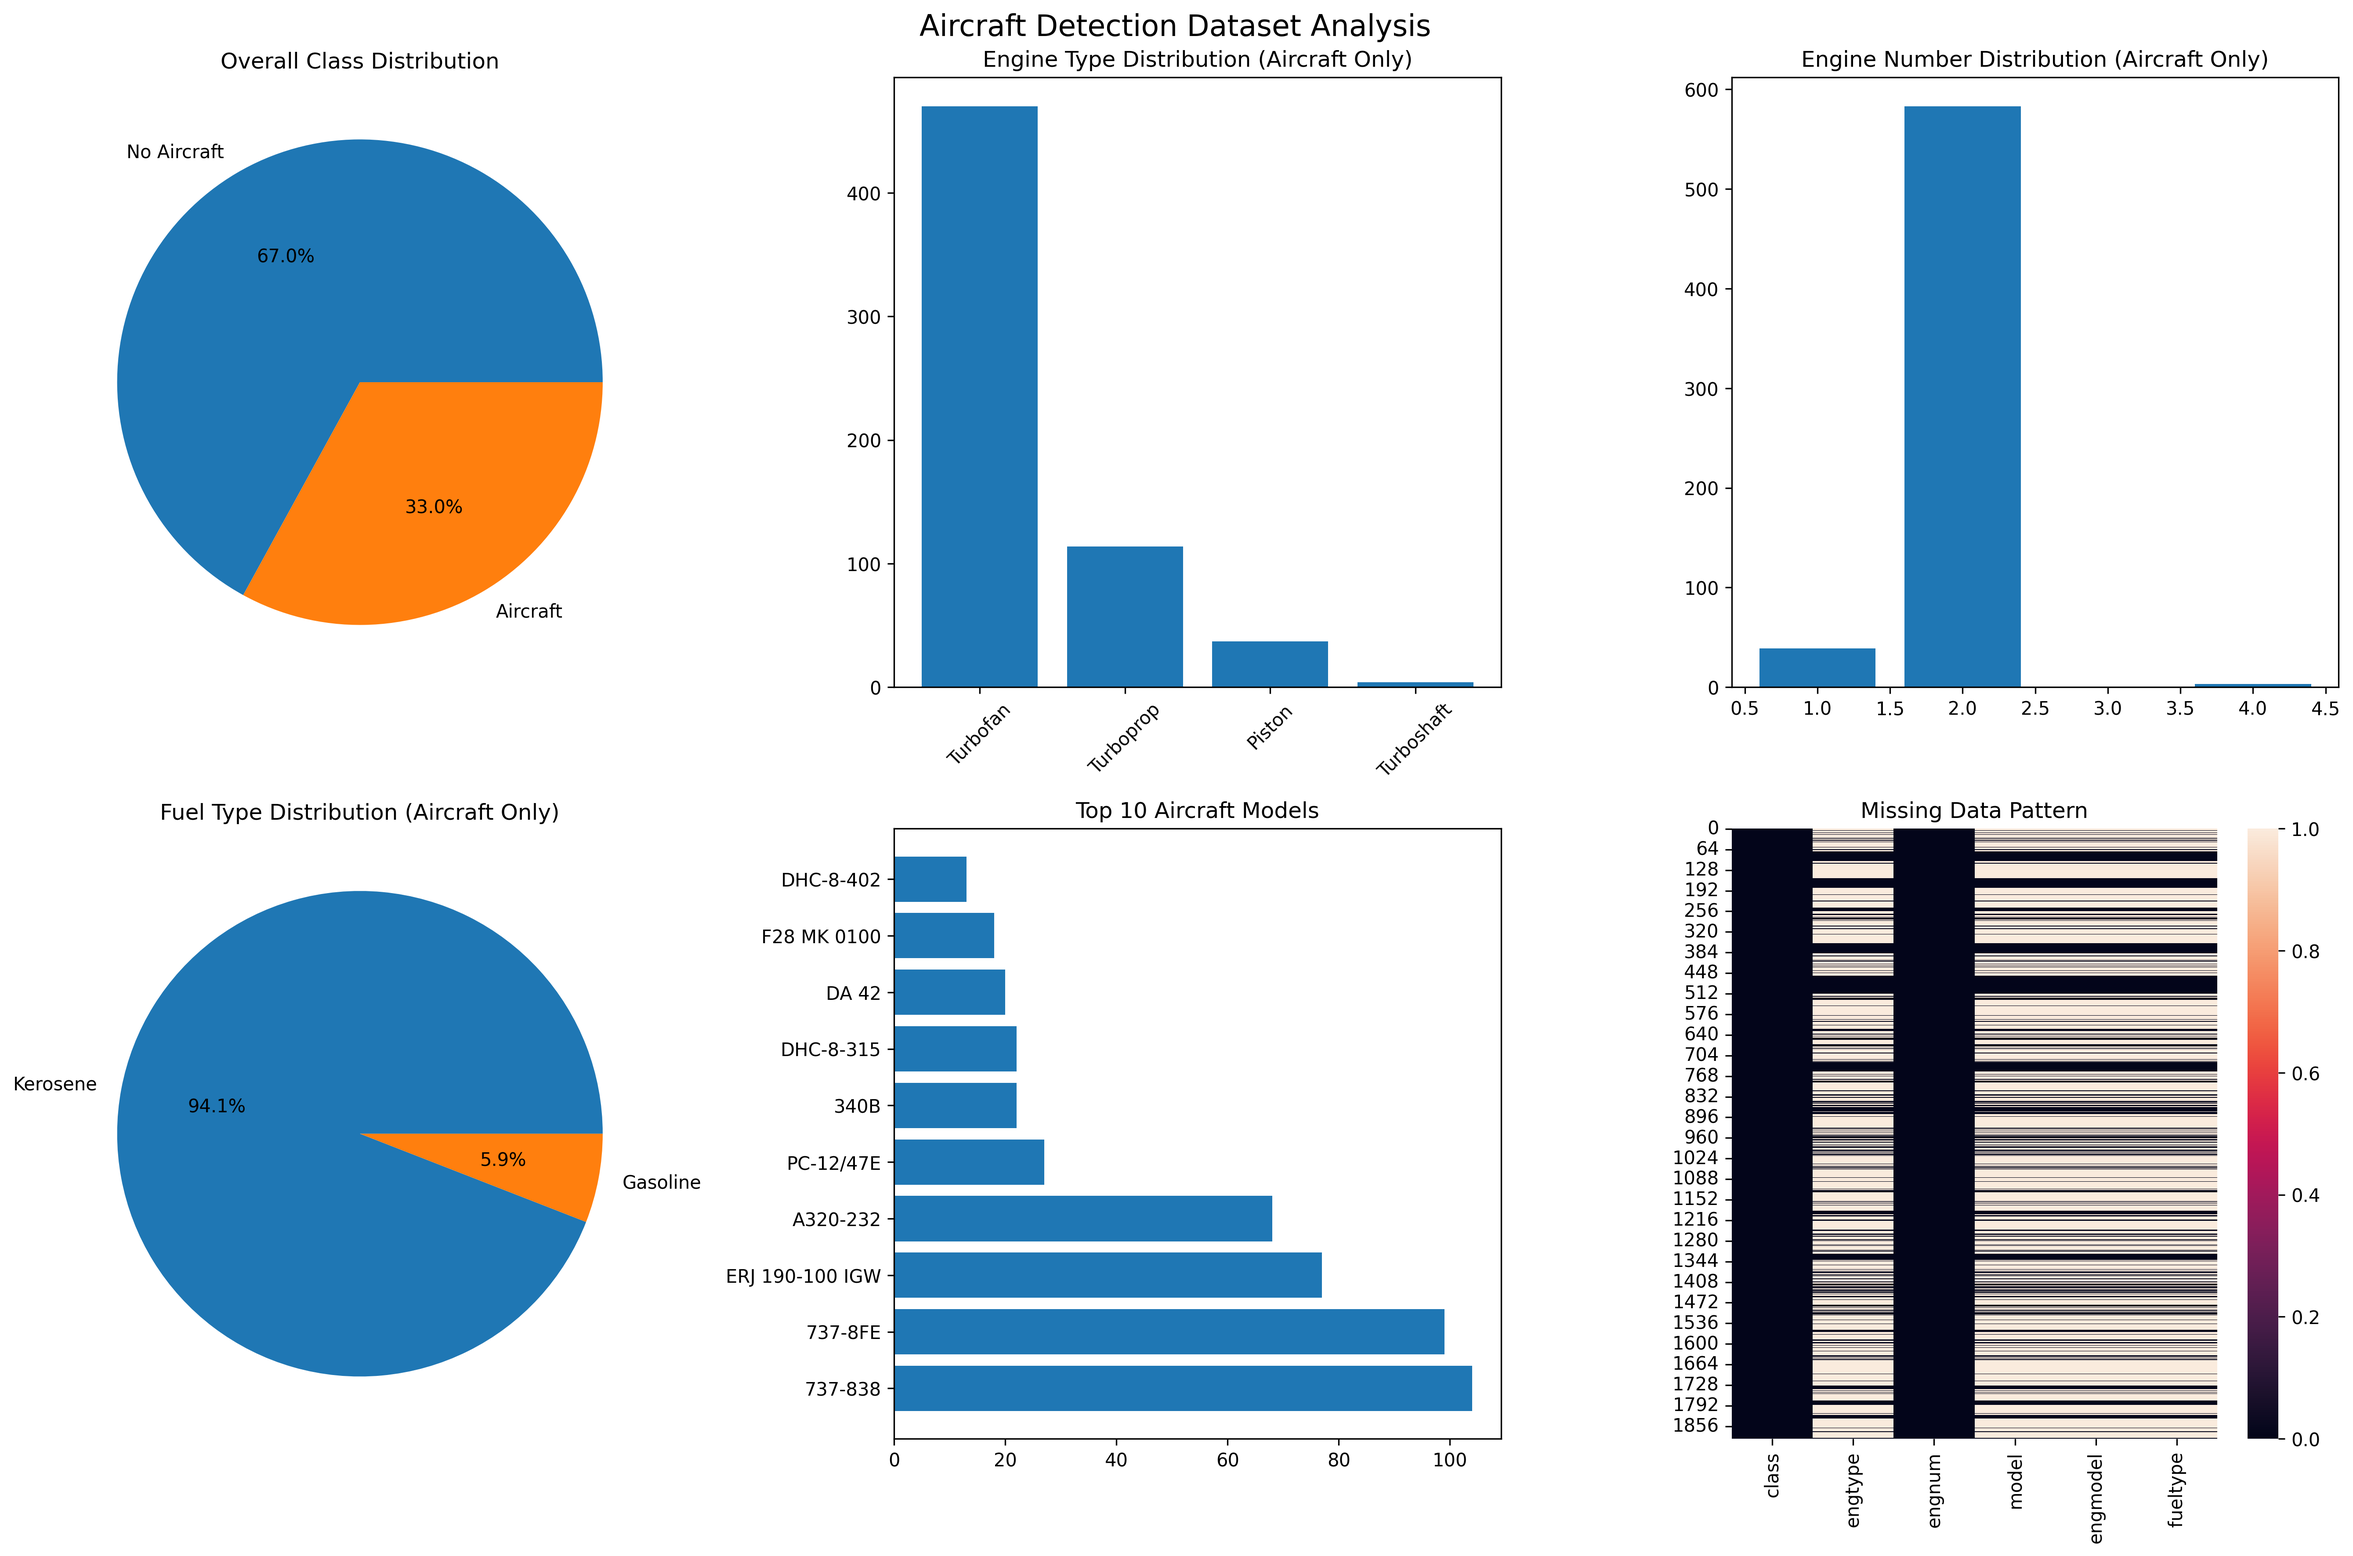
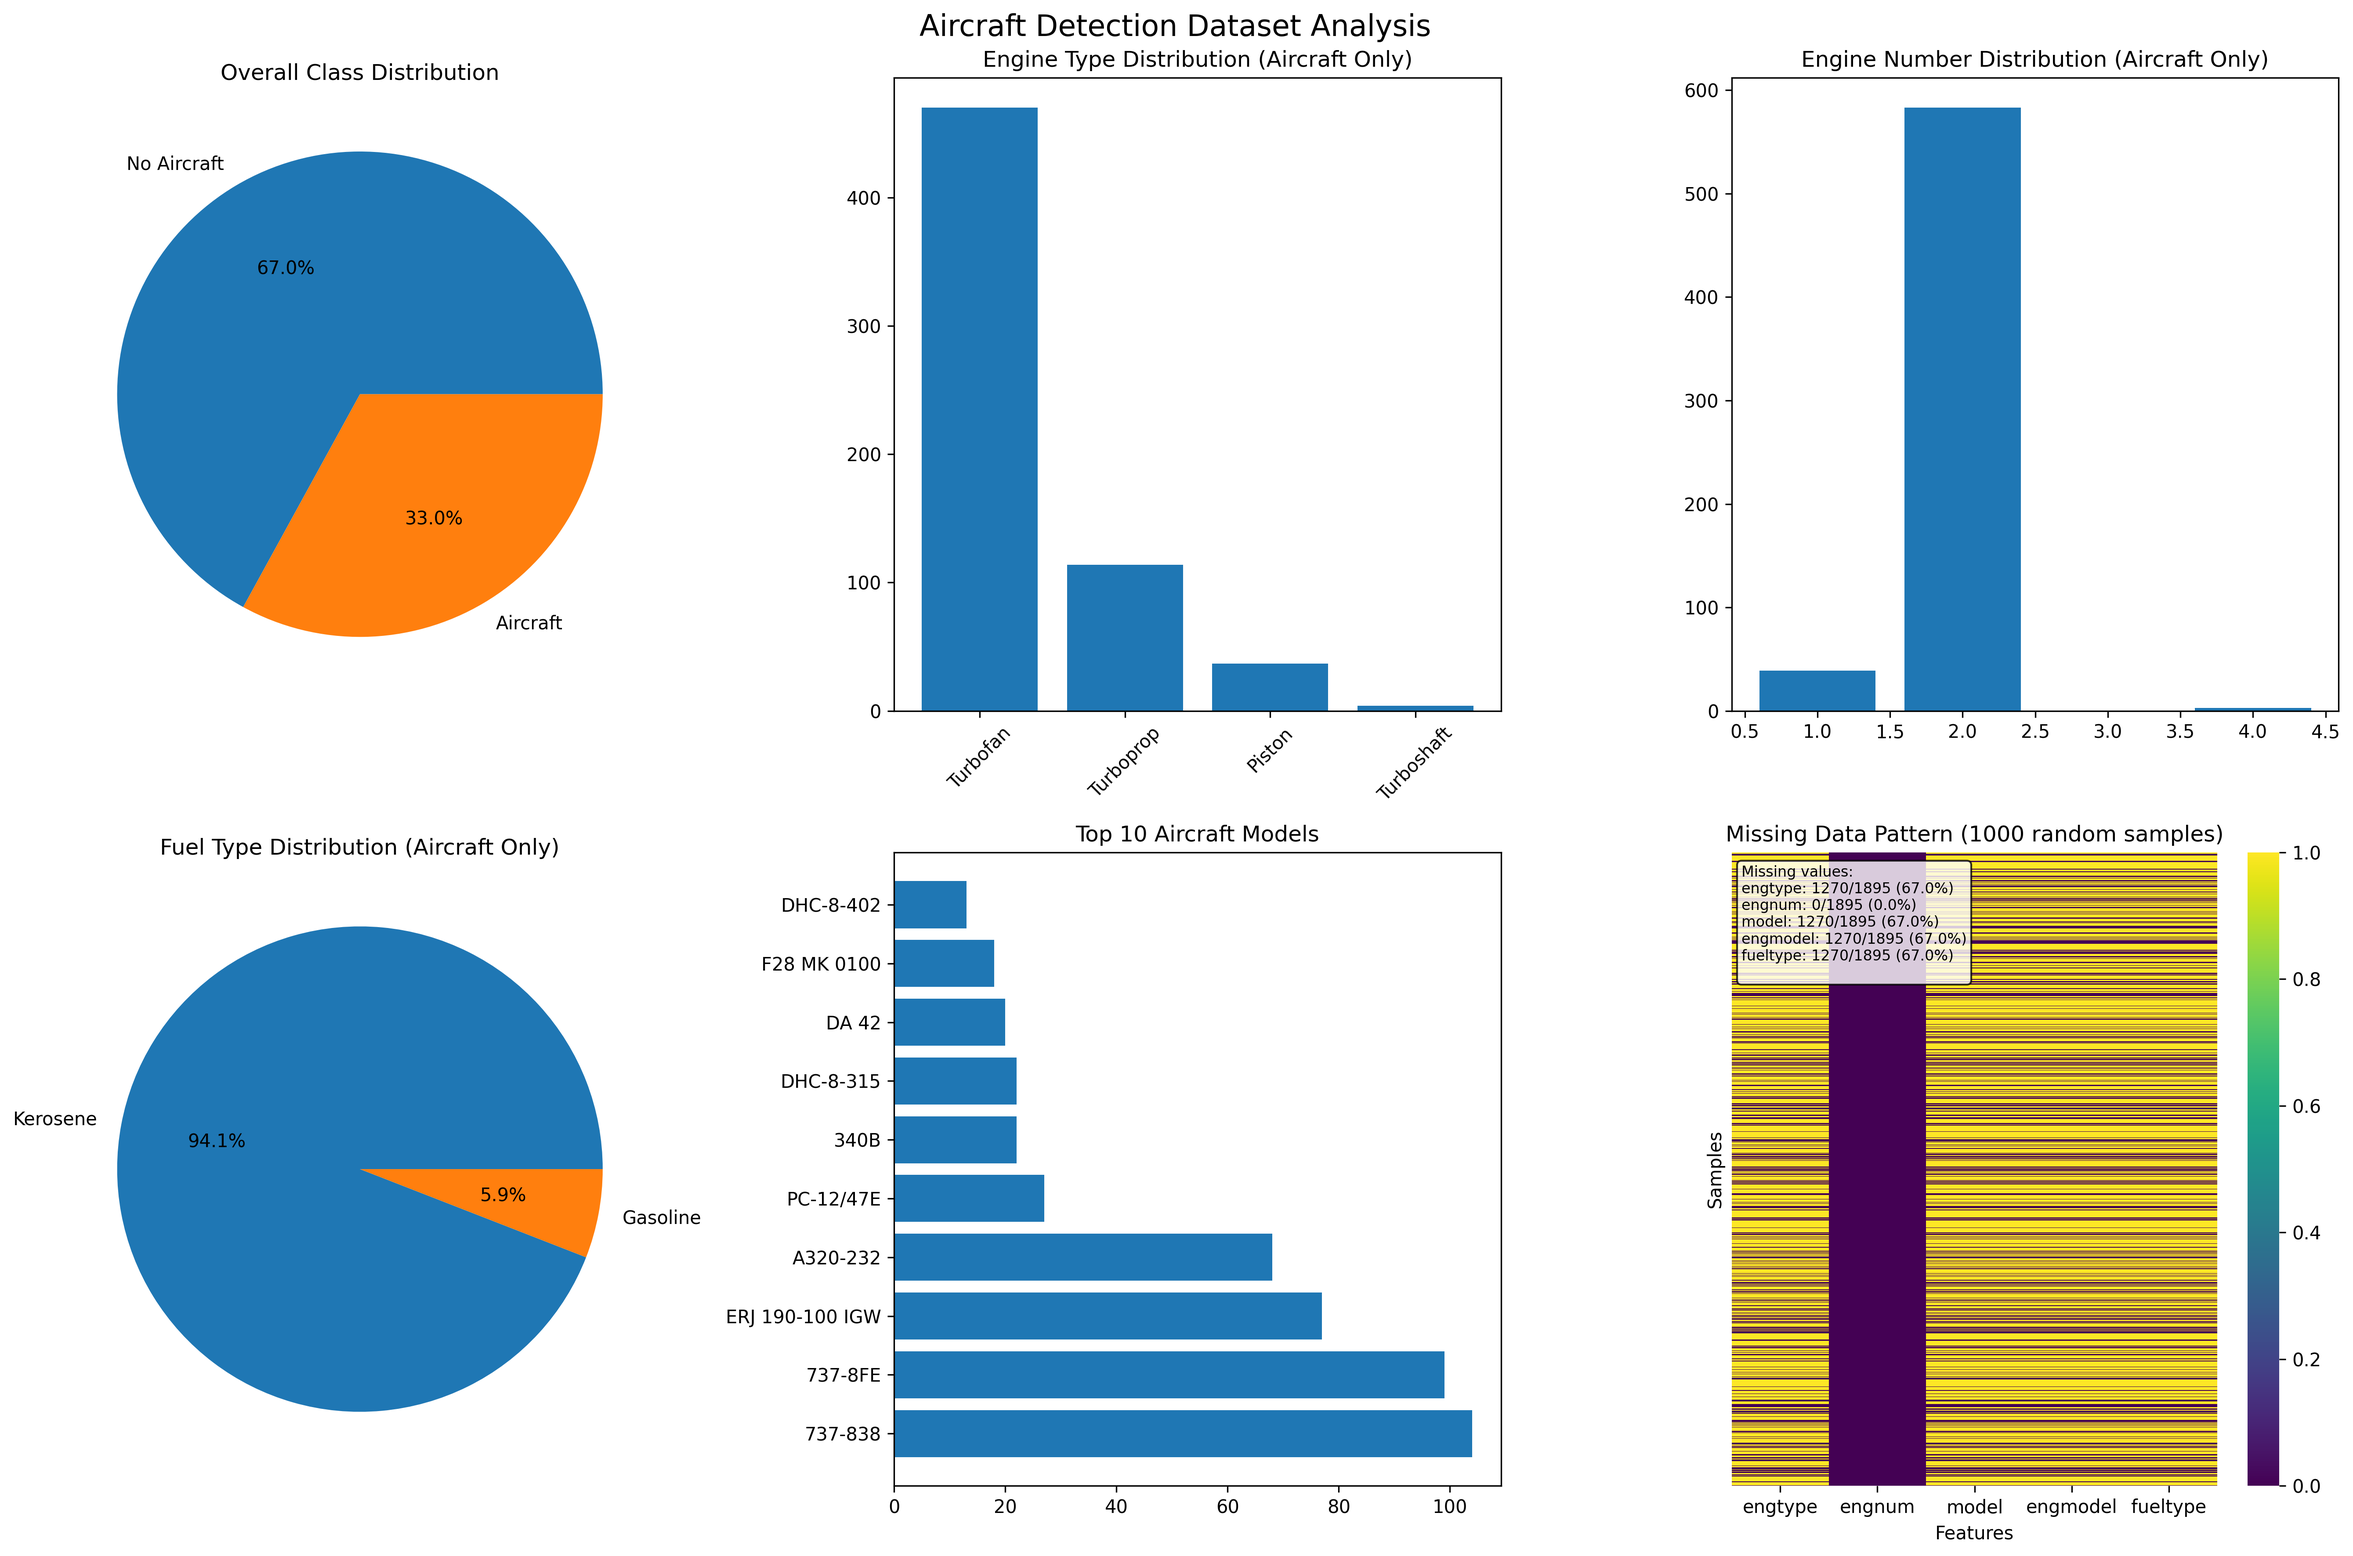
dataset analysis corrected, added README.md, requirements.txt

diff --git a/analyze_dataset.py b/analyze_dataset.py
@@ -104,6 +104,68 @@ def analyze_dataset():
     
     return df, aircraft_df, complete_aircraft
 
+def analyze_missing_data(df):
+    """Analyze missing data patterns in detail"""
+    
+    print("=== DETAILED MISSING DATA ANALYSIS ===")
+    
+    # Target columns for analysis
+    target_cols = ['engtype', 'engnum', 'model', 'engmodel', 'fueltype']
+    
+    # Calculate missing data statistics
+    missing_stats = {}
+    for col in target_cols:
+        if col in df.columns:
+            missing_count = df[col].isnull().sum()
+            total_count = len(df)
+            missing_percentage = (missing_count / total_count) * 100
+            missing_stats[col] = {
+                'missing_count': missing_count,
+                'total_count': total_count,
+                'missing_percentage': missing_percentage,
+                'present_count': total_count - missing_count
+            }
+    
+    # Print detailed statistics
+    for col, stats in missing_stats.items():
+        print(f"\n{col.upper()}:")
+        print(f"  Missing: {stats['missing_count']}/{stats['total_count']} ({stats['missing_percentage']:.1f}%)")
+        print(f"  Present: {stats['present_count']}/{stats['total_count']} ({100 - stats['missing_percentage']:.1f}%)")
+    
+    # Analyze missing data patterns
+    print(f"\n=== MISSING DATA PATTERNS ===")
+    
+    # Check if missing data is related to class
+    if 'class' in df.columns:
+        print(f"\nMissing data by class:")
+        for col in target_cols:
+            if col in df.columns:
+                missing_by_class = df.groupby('class')[col].apply(lambda x: x.isnull().sum())
+                total_by_class = df.groupby('class').size()
+                print(f"\n{col}:")
+                for class_val, missing_count in missing_by_class.items():
+                    total_in_class = total_by_class[class_val]
+                    percentage = (missing_count / total_in_class) * 100
+                    class_label = "Aircraft" if class_val == 1 else "No Aircraft"
+                    print(f"  {class_label} (class={class_val}): {missing_count}/{total_in_class} ({percentage:.1f}%)")
+    
+    # Check for complete vs incomplete records
+    complete_records = df.dropna(subset=target_cols)
+    incomplete_records = df[df[target_cols].isnull().any(axis=1)]
+    
+    print(f"\n=== RECORD COMPLETENESS ===")
+    print(f"Complete records: {len(complete_records)} ({len(complete_records)/len(df)*100:.1f}%)")
+    print(f"Incomplete records: {len(incomplete_records)} ({len(incomplete_records)/len(df)*100:.1f}%)")
+    
+    # Analyze which columns are most commonly missing together
+    print(f"\n=== MISSING DATA COMBINATIONS ===")
+    missing_combinations = df[target_cols].isnull().sum(axis=1).value_counts().sort_index()
+    for missing_count, record_count in missing_combinations.items():
+        percentage = (record_count / len(df)) * 100
+        print(f"Records missing {missing_count} columns: {record_count} ({percentage:.1f}%)")
+    
+    return missing_stats
+
 def create_visualizations(df, aircraft_df, complete_aircraft):
     """Create visualizations for the dataset analysis"""
     
@@ -144,10 +206,54 @@ def create_visualizations(df, aircraft_df, complete_aircraft):
         axes[1, 1].set_yticklabels(model_counts.index)
         axes[1, 1].set_title('Top 10 Aircraft Models')
     
-    # 6. Missing data heatmap
-    missing_data = df[['class', 'engtype', 'engnum', 'model', 'engmodel', 'fueltype']].isnull()
-    sns.heatmap(missing_data, cbar=True, ax=axes[1, 2])
-    axes[1, 2].set_title('Missing Data Pattern')
+    # 6. Missing data heatmap - improved version
+    # Only show target columns for missing data analysis (exclude 'class' as it's the target)
+    target_cols_for_missing = ['engtype', 'engnum', 'model', 'engmodel', 'fueltype']
+    missing_data = df[target_cols_for_missing].isnull()
+    
+    # Create a better missing data visualization
+    if missing_data.sum().sum() > 0:  # Only create heatmap if there are missing values
+        # Sample the data if too many rows to avoid overwhelming visualization
+        if len(missing_data) > 1000:
+            # Take a random sample of 1000 rows for better visualization
+            sample_indices = np.random.choice(len(missing_data), 1000, replace=False)
+            missing_data_sample = missing_data.iloc[sample_indices]
+            title_suffix = " (1000 random samples)"
+        else:
+            missing_data_sample = missing_data
+            title_suffix = ""
+        
+        sns.heatmap(missing_data_sample, 
+                    cbar=True, 
+                    ax=axes[1, 2],
+                    cmap='viridis',
+                    yticklabels=False)  # Hide y-axis labels for cleaner look
+        axes[1, 2].set_title(f'Missing Data Pattern{title_suffix}')
+        axes[1, 2].set_xlabel('Features')
+        axes[1, 2].set_ylabel('Samples')
+        
+        # Add missing data summary as text
+        missing_summary = missing_data.sum()
+        total_samples = len(missing_data)
+        summary_text = f"Missing values:\n"
+        for col, missing_count in missing_summary.items():
+            percentage = (missing_count / total_samples) * 100
+            summary_text += f"{col}: {missing_count}/{total_samples} ({percentage:.1f}%)\n"
+        
+        # Add text box with summary
+        axes[1, 2].text(0.02, 0.98, summary_text, 
+                        transform=axes[1, 2].transAxes, 
+                        verticalalignment='top',
+                        bbox=dict(boxstyle='round', facecolor='white', alpha=0.8),
+                        fontsize=8)
+    else:
+        # If no missing data, show a message
+        axes[1, 2].text(0.5, 0.5, 'No Missing Data\nin Target Columns', 
+                        ha='center', va='center', transform=axes[1, 2].transAxes,
+                        fontsize=14, fontweight='bold')
+        axes[1, 2].set_title('Missing Data Pattern')
+        axes[1, 2].set_xticks([])
+        axes[1, 2].set_ylabel([])
     
     plt.tight_layout()
     plt.savefig('dataset_analysis.png', dpi=300, bbox_inches='tight')
@@ -156,6 +262,9 @@ def create_visualizations(df, aircraft_df, complete_aircraft):
 if __name__ == "__main__":
     # Run the analysis
     df, aircraft_df, complete_aircraft = analyze_dataset()
+    
+    # Run detailed missing data analysis
+    missing_stats = analyze_missing_data(df)
     
     # Create visualizations
     create_visualizations(df, aircraft_df, complete_aircraft)

diff --git a/README.md b/README.md
@@ -1,0 +1,104 @@
+# Aircraft Detection from Audio - Multi-Class Classification
+
+Deep learning system to classify aircraft characteristics from audio recordings using convolutional recurrent neural networks (CRNNs)
+
+## Project Overview
+
+Multi-class classification:
+
+- **Engine Type** (Turbofan, Turboprop, Piston, Turboshaft)
+- **Engine Number** (1, 2, 4 engines)
+- **Fuel Type** (Kerosene, Gasoline)
+
+## Dataset Analysis
+
+![Dataset Analysis](dataset_analysis.png)
+
+### Dataset Structure
+- **Total Recordings**: 1,895 audio files
+- **Aircraft Recordings**: 625 (class=1)
+- **No Aircraft Recordings**: 1,270 (class=0)
+- **Audio Format**: WAV files
+- **Duration**: Variable (typically 10-60 seconds)
+
+### Target Classification Variables
+
+#### 1. Engine Type (engtype) - 4 Classes
+| Class | Count | Percentage | Balance Ratio |
+|-------|-------|------------|---------------|
+| Turbofan | 470 | 75.2% | 117.5:1 |
+| Turboprop | 114 | 18.2% | 29.3:1 |
+| Piston | 37 | 5.9% | 9.3:1 |
+| Turboshaft | 4 | 0.6% | 1:1 |
+
+#### 2. Engine Number (engnum) - 3 Classes
+| Class | Count | Percentage | Balance Ratio |
+|-------|-------|------------|---------------|
+| 2 engines | 583 | 93.3% | 194.3:1 |
+| 1 engine | 39 | 6.2% | 15.0:1 |
+| 4 engines | 3 | 0.5% | 1:1 |
+
+#### 3. Fuel Type (fueltype) - 2 Classes
+| Class | Count | Percentage | Balance Ratio |
+|-------|-------|------------|---------------|
+| Kerosene | 588 | 94.1% | 15.9:1 |
+| Gasoline | 37 | 5.9% | 1:1 |
+
+### Data Quality Assessment
+- **Missing Data**: All target variables have complete data for aircraft recordings (class=1)
+- **Data Integrity**: No missing values in aircraft recordings for classification targets
+- **Class Balance**: Highly imbalanced dataset requiring special handling strategies
+
+
+### Audio Processing Pipeline
+1. **Audio Loading**: Using librosa for audio file loading and resampling
+2. **Segmentation**: Extract fixed-duration segments from variable-length recordings
+3. **Feature Extraction**: Convert audio to mel-spectrograms using librosa
+4. **Normalization**: Apply power-to-decibel conversion for better model training
+
+### Model Architecture
+- **Base Model**: Convolutional Neural Network
+- **Input**: Mel-spectrogram images (time-frequency representations)
+- **Layers**: Conv2D, MaxPooling2D, Dropout, BatchNormalization
+- **Output**: Multi-class classification with softmax activation
+
+### Training Strategy
+- **Data Split**: Stratified train/validation/test split to maintain class proportions
+- **Class Weights**: Applied to handle imbalanced class distributions
+- **Data Augmentation**: Audio augmentation techniques for minority classes
+- **Regularization**: Dropout and batch normalization to prevent overfitting
+
+## Project Structure
+
+```
+drone-detection/
+├── dataset/
+│   ├── audio/                 # Audio files directory
+│   ├── env_audio/            # Environment audio files
+│   ├── sample_meta.csv       # Metadata with aircraft information
+│   ├── environment_mappings_raw.csv
+│   └── environment_class_mappings.csv
+├── aircraft-detection-from-audio-binary-classifier.ipynb  # Main notebook
+├── analyze_dataset.py         # Dataset analysis script
+├── get_data.py               # Data download script
+├── README.md                 # This file
+├── requirements.txt          # Python dependencies
+└── venv/                    # Virtual environment
+```
+
+## Key Features
+
+### Multi-Class Classification
+- **Engine Type Classification**: Distinguish between different propulsion systems
+- **Engine Count Classification**: Identify number of engines (1, 2, or 4)
+- **Fuel Type Classification**: Classify fuel type (Kerosene vs. Gasoline)
+
+### Advanced Audio Processing
+- **Mel-Spectrogram Generation**: Time-frequency representation of audio
+- **Segment Extraction**: Handle variable-length audio recordings
+- **Audio Augmentation**: Improve model robustness and handle class imbalance
+
+### Model Optimization
+- **Class Weight Balancing**: Address imbalanced dataset challenges
+- **Regularization Techniques**: Prevent overfitting on limited data
+- **Transfer Learning**: Leverage pre-trained models for better performance
